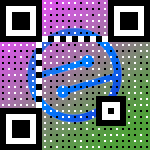
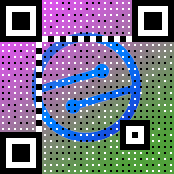
basic input processing

diff --git a/src/main.rs b/src/main.rs
@@ -7,35 +7,66 @@ use image;
 use std::env;
 
 #[derive(Debug, Serialize, Deserialize)]
-struct Settings {
-    code: String,
+struct Blob {
+    text: String,
+    colorized: bool,
+    version: i16,
+    level: String,
+    contrast: f32,
+    brightness: f32,
     input_filename: String,
     output_filename: String,
 }
 
-// would like to be drop-in replacement from https://github.com/mobilecoinofficial/forest/blob/main/mobfriend/mobfriend.py#L51
+// would like to be drop-in replacement from 
+// https://github.com/mobilecoinofficial/forest/blob/main/mobfriend/mobfriend.py#L118
 
 fn main() {
     // TODO: take JSON settings as argument
     // we'll pretend we were passed this for now
     let testjson = r#"
             {
-                "code": "https://mobilecoin.com/",
+                "text": "https://mobilecoin.com/",
+                "colorized": true,
+                "version": 1,
+                "level": "H",
+                "contrast": 1.0,
+                "brightness": 1.0,
                 "input_filename": "data/input.png",
                 "output_filename": "data/output.png"
             }"#;
 
-    let settings: Settings = serde_json::from_str(testjson).unwrap();
-    println!("{:?}", settings);
+    // TODO: proper default values
+    let blob: Blob = serde_json::from_str(testjson).unwrap();
 
-    // generate QR code ============================================
-    let code = QrCode::new(settings.code).unwrap();
+    // pick level, default H
+    let qrlevel = match blob.level.as_str() {
+       "L" => qrcode::EcLevel::L,
+       "M" => qrcode::EcLevel::M,
+       "Q" => qrcode::EcLevel::Q,
+       "H" => qrcode::EcLevel::H,
+       _ => qrcode::EcLevel::H,
+    };
+
+    // pick version, up to 40
+    let qrversion = match blob.version {
+        v if v < 1 => qrcode::Version::Normal(1),
+        v if v > 40 => qrcode::Version::Normal(40),
+        _ => qrcode::Version::Normal(blob.version),
+    };
+
+    // TODO: minimum version selection check
+    // use qrcode optimize to find min version
+    // and make sure we're between that and 40
+    // also probably that it fits in within 40
     
-    let string = code.render::<char>()
-        .quiet_zone(false)
-        .module_dimensions(2, 1)
-        .build();
-    println!("{}", string);
+    // TODO: brightness and contrast are currently unused, likely no bounds check needed
+
+    // generate QR code =======================================================
+    // TODO: actually use provided QR code version
+    let code = QrCode::with_error_correction_level(blob.text, qrlevel).unwrap();
+    //let code = QrCode::with_version(blob.text, qrversion, qrlevel).unwrap();
+    //let code = QrCode::new(blob.text).unwrap();
 	
     let qrcolors = code.to_colors();
 
@@ -79,11 +110,11 @@ fn main() {
 
     // grab base image and resize to our preferred output size
     // TODO: maintain input/output aspect ratio and center
-    let baseimg = image::open(settings.input_filename).unwrap();
+    let baseimg = image::open(blob.input_filename).unwrap();
     let mut resized = baseimg.resize(imgwidth, imgwidth, image::imageops::FilterType::CatmullRom);
 
     // throw overlay on the base image... this fundamentally what we're doing here
     image::imageops::overlay(&mut resized, &qr_mask, 0, 0);
 
-    resized.save(settings.output_filename).unwrap();	
+    resized.save(blob.output_filename).unwrap();	
 }
